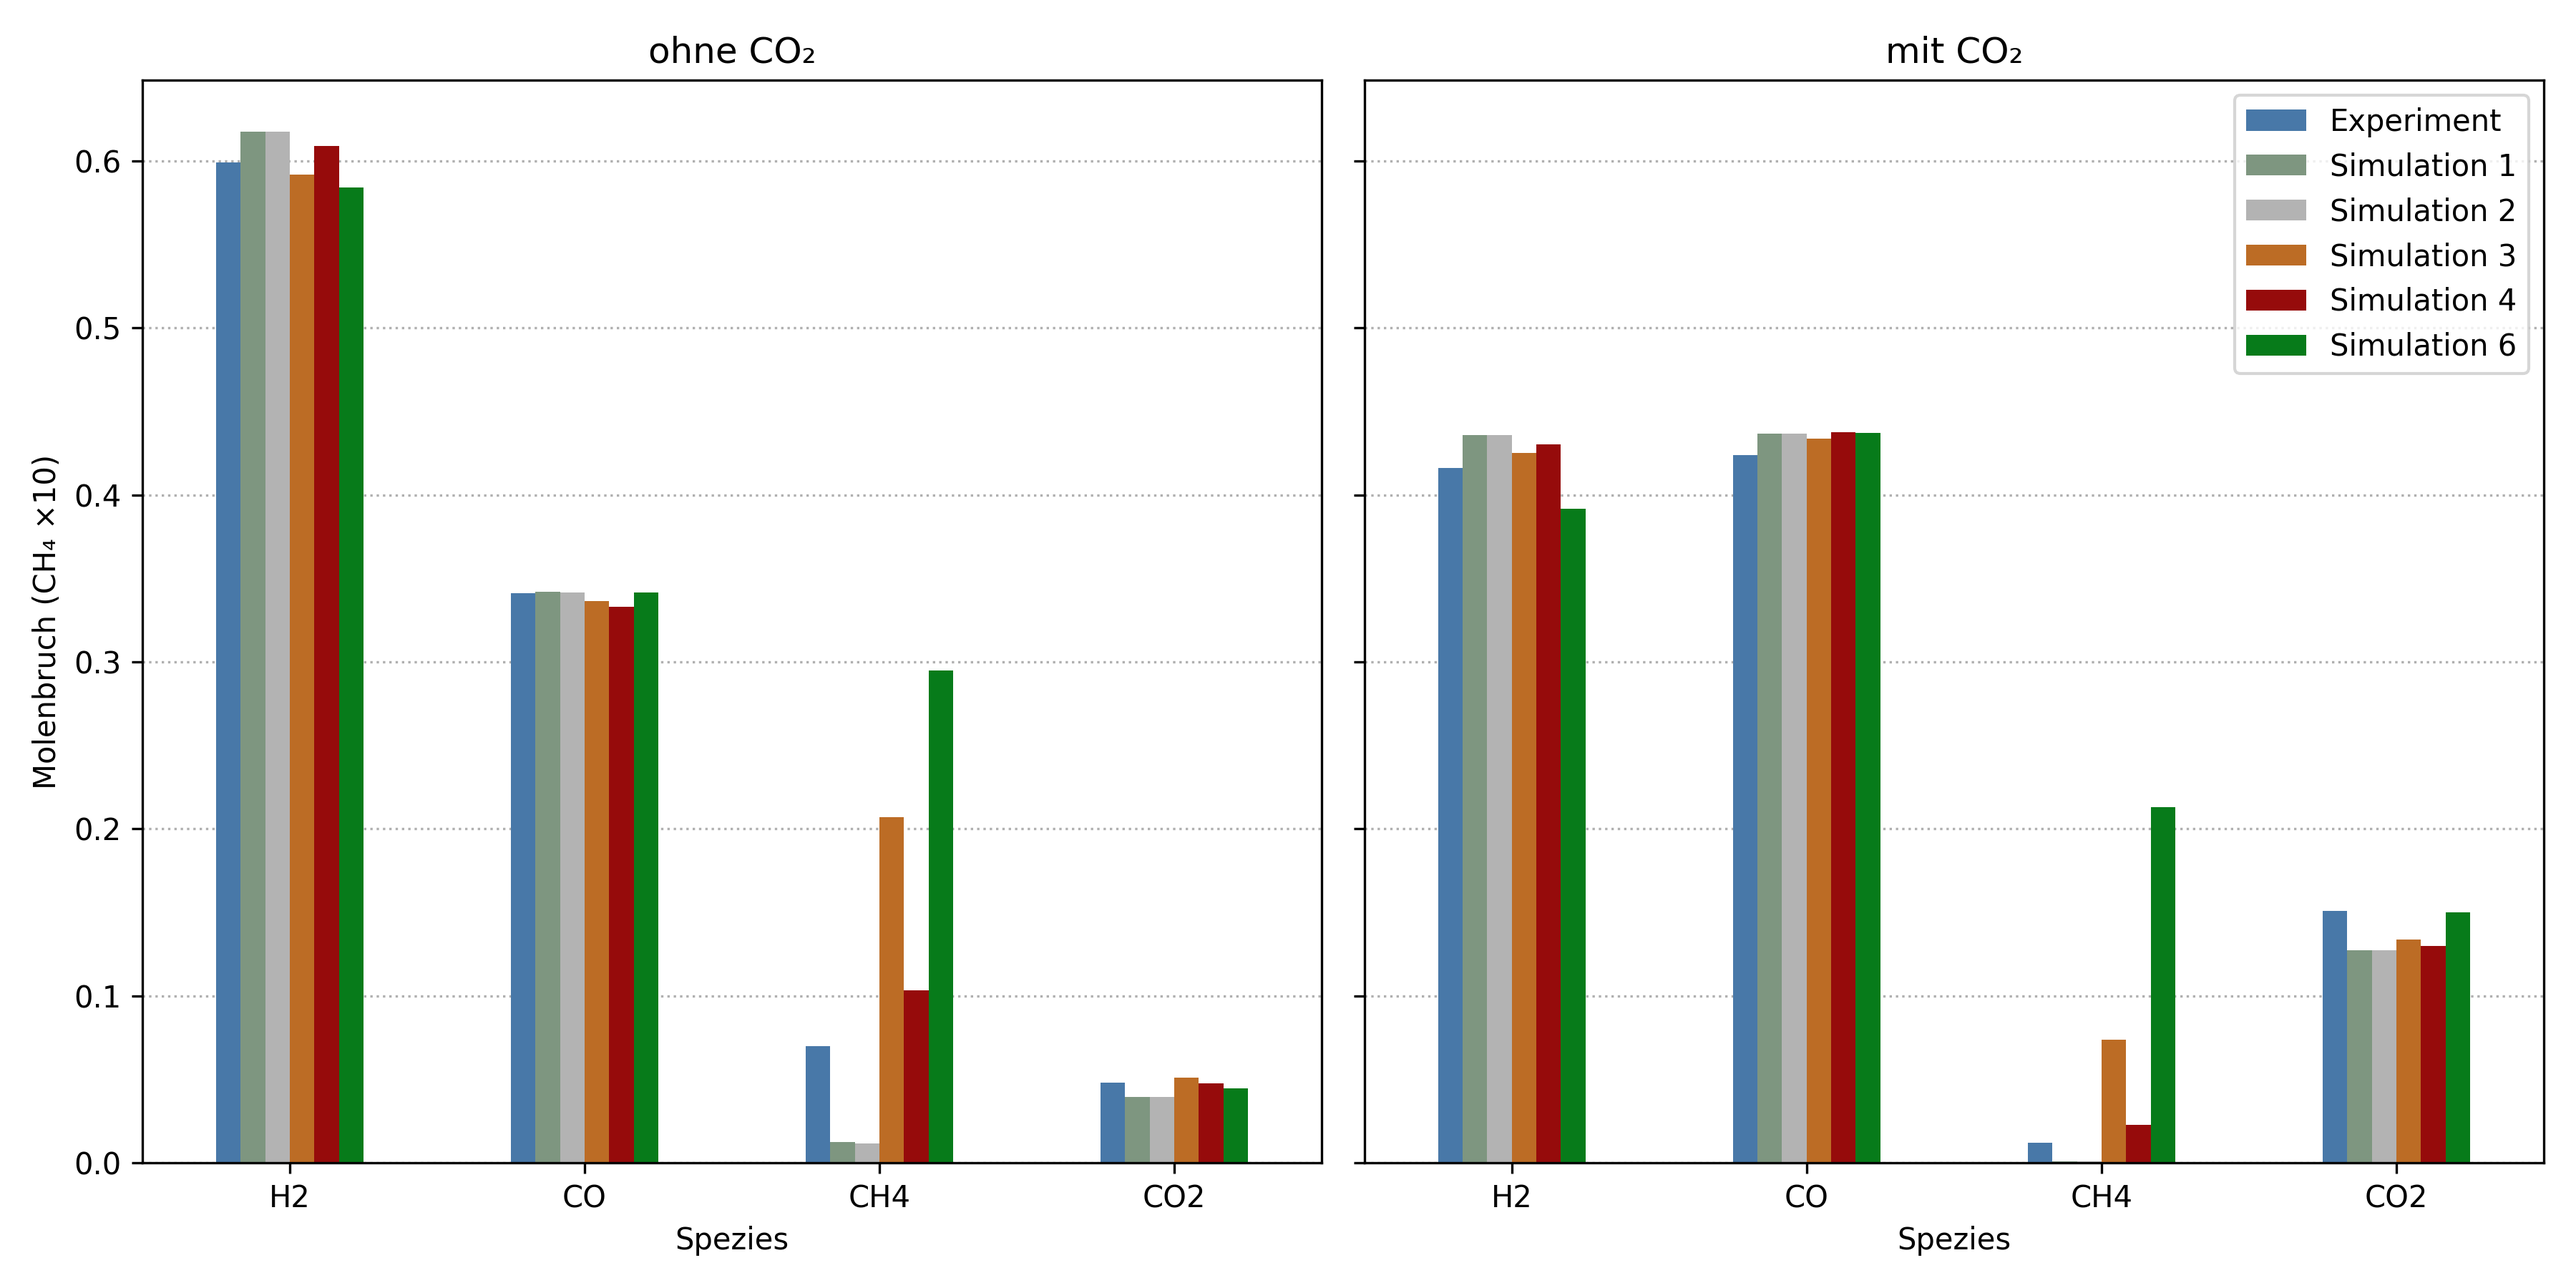
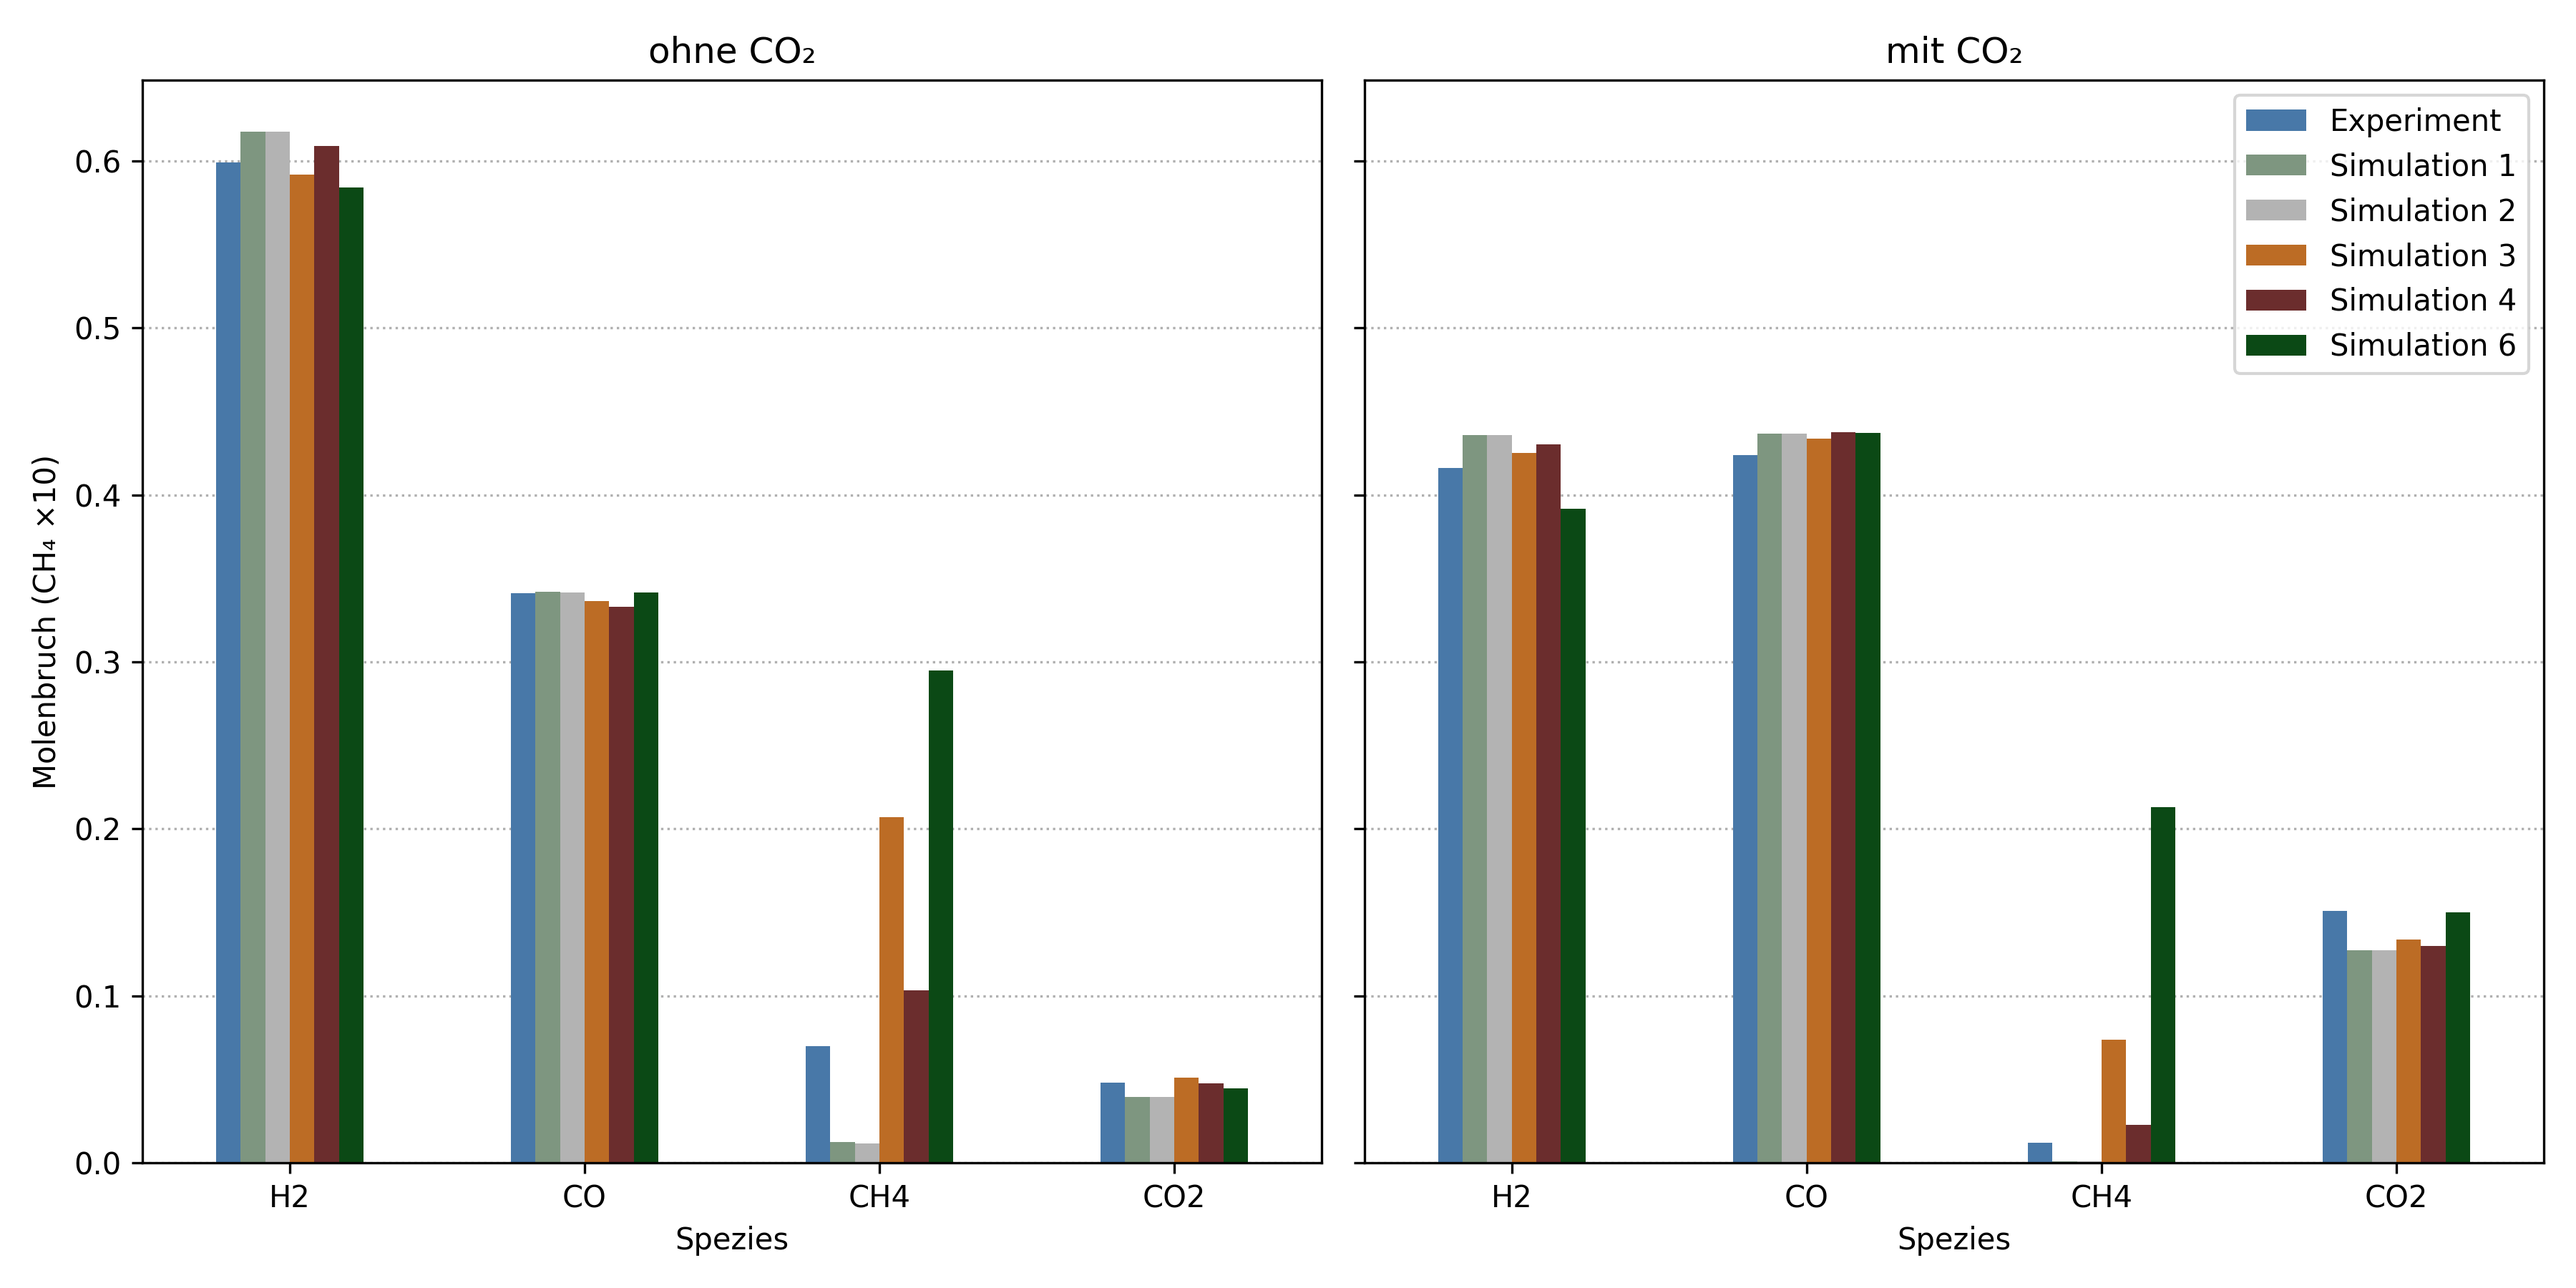
Fehlerrechnung Simulation

diff --git a/Scripts/Auswertungen/Erweiterungen/Auswertung_Erweiterung.py b/Scripts/Auswertungen/Erweiterungen/Auswertung_Erweiterung.py
@@ -9,8 +9,16 @@ color1 = '#4878A8'
 color2 = '#7E9680'
 color3 = '#B3B3B3'
 color4 = '#BC6C25'
-color5 = "#960B0B"
-color6 = "#077B1A"
+color5 = "#6B2D2D"
+color6 = "#0B4915"
+"""
+color1 = "#446A87"  # gedecktes Stahlblau
+color2 = "#5C735F"  # dunkles Olivgrün
+color3 = "#8C8C8C"  # mittleres Grau
+color4 = "#A65E2E"  # warmes Kupferbraun
+color5 = "#7B3F3F"  # gedecktes Rotbraun
+color6 = "#2F6F4F"  # dunkles Tannengrün
+"""
 
 colors = [color1,color2,color3,color4,color5, color6]
 
@@ -191,6 +199,24 @@ def tvd_scores(df, exp_col="Exp"):
     # TVD = 0.5 * L1-Distanz der Verteilungen
     tvd = 0.5 * (sims.sub(exp, axis=0).abs()).sum(axis=0)
     return tvd.sort_values()  # kleiner = besser
+
+def relative_error_scores(df, exp_col="Exp", eps=1e-6):
+    """
+    Berechnet mittleren relativen Fehler pro Simulation.
+    
+    df: DataFrame mit Spalten [exp_col, sim1, sim2, ...]
+    exp_col: Name der Spalte mit den Experimentwerten
+    eps: kleiner Wert, um Division durch 0 zu vermeiden
+    """
+    exp = df[exp_col].astype(float).replace(0, eps)   # kleine Werte absichern
+    sims = df.drop(columns=[exp_col]).astype(float)
+
+    # relativer Fehler: |sim - exp| / |exp|
+    rel_errors = (sims.sub(exp, axis=0).abs().div(exp.abs(), axis=0))
+
+    # Mittelwert über alle Zeilen → Score pro Simulation
+    scores = rel_errors.mean(axis=0).sort_values()
+    return scores  # kleiner = besser
 
 scores = tvd_scores(df_exp_data_no_CO2)
 print("TVD pro Modell (0=perfekt, 1=schlecht):")
@@ -401,17 +427,19 @@ if not handles:
 else:
     axes[-1].legend(labels, loc="best")
 
+plt.ylim(1200)
+
 plt.tight_layout()
 plt.savefig("Bilder/Vergleich_Temperaturen.png", dpi=300)
 # plt.show()
 
 ##% Ähnlichkeiten überprüfen
-scores = tvd_scores(df_exp_data_no_CO2)
-print("TVD pro Modell (0=perfekt, 1=schlecht):")
+scores = relative_error_scores(df_exp_data_no_CO2)
+print("MRE pro Modell (0=perfekt, 1=schlecht):")
 print(scores)
 print("\nBestes Modell:", scores.idxmin(), "mit TVD =", float(scores.min()))
 
-scores = tvd_scores(df_exp_data_CO2)
-print("TVD pro Modell (0=perfekt, 1=schlecht):")
+scores = relative_error_scores(df_exp_data_CO2)
+print("MRE pro Modell (0=perfekt, 1=schlecht):")
 print(scores)
 print("\nBestes Modell:", scores.idxmin(), "mit TVD =", float(scores.min()))
